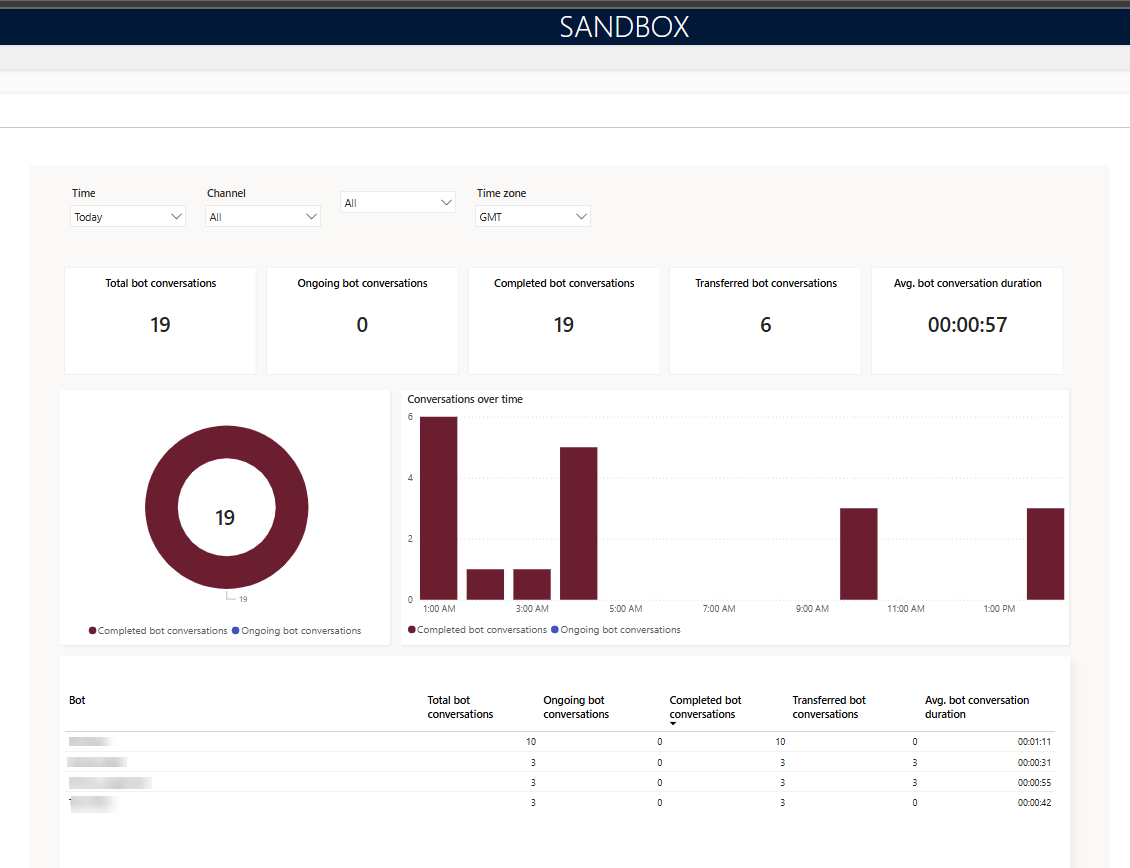
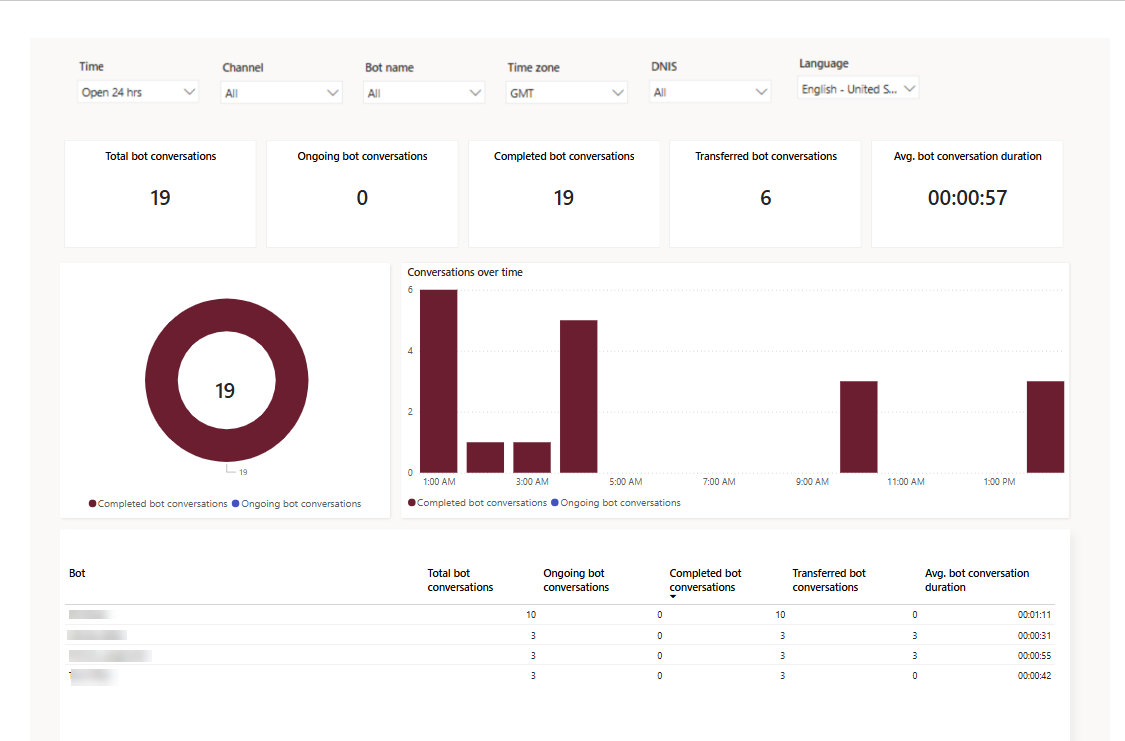
changes

diff --git a/contact-center/use/agent-realtime-dashboard.md b/contact-center/use/agent-realtime-dashboard.md
@@ -12,19 +12,24 @@ ms.custom: bap-template
 
 # View and understand the bot report in Omnichannel real-time analytics
 
-The **Bots** report provides insights into key metrics for all the Copilot Studio bots used in your contact center. It allows you to monitor the volumes of in-progress and completed bot conversations. 
-
-:::image type="content" source="../media/oc-realtime-dashboard.png" alt-text="Screenshot of realtime bot dashboard"::: 
-
-## Prerequisites
-
-- You must have the **Analytics Report Author** role to use the visual customizations in the bot dashboard. Visual customization is limited to the data available in the embedded Power BI report. If you want to add more data, you need a Power BI license and enable data model customization.
-
-## Key metrics
+The **Bot** report provides insights into key metrics for all the Copilot Studio bots used in your contact center. It allows you to monitor the volumes of in-progress and completed bot conversations.
 
 Out of the box, the dashboard displays key metrics for the last 24 hours to help you understand bot usage and optimize performance in real time.
 
-You can filter the report by selecting **All** to view bot performance across all channels or by choosing a specific channel. Filters include time, queue, time zone, and conversation status. Learn more in [Overview of Omnichannel Real-time analytics dashboards](/dynamics365/customer-service/use/intro-realtime-analytics-dashboard).
+You can filter the report by selecting **All** to view bot performance across all channels or by choosing a specific channel. Filters include time, queue, time zone, and conversation status. Learn more in [Overview of Omnichannel real-time analytics dashboards](/dynamics365/customer-service/use/intro-realtime-analytics-dashboard#filter-information-displayed-on-dashboard).
+
+
+## Key performance indicators (KPIs)
+
+Key KPIs for bots include:
+
+- **Total bot conversations**: The number of ongoing or closed conversations handled by the bot within the specified duration.
+- **Total bot ongoing conversations**: The number of conversations currently in progress.
+- **Total bot completed conversations**: The number of conversations that are successfully resolved or end within the specified duration.
+- **Total bot transferred conversations**: The number of bot conversations that are escalated to a human agent or an external phone number within the specified duration.
+- **Average conversation duration**: The average time each conversation lasts. The conversation duration is calculated from the time the bot is assigned to the conversation until the bot escalates the conversation or ends it.
+
+:::image type="content" source="../media/oc-realtime-dashboard.png" alt-text="Screenshot of realtime bot dashboard"::: 
 
 ## Monitor trends
 
@@ -32,19 +37,22 @@ You can identify trends in real-time bot performance with interactive charts and
 
  The visual display helps you discern changes and patterns in the data so that you can act quickly to address the most important issues.
 
-When you select a component in a chart, the data is filtered accordingly. In this way, you can view only data that is related to the selected component. For example, if you select the **Completed** component in the **Conversation status** chart, the dashboard is refreshed and shows only the conversations that are currently in the **Completed** state.
-
-## Customize bot dashboard
-You can edit the report to add other metrics and filters to the bot. To customize the bot dashboard, see [customize visual display](customize-agent-dashboard.md). 
+When you select a component in a chart, the data is filtered accordingly. In this way, you can view only data that is related to the selected component. For example, if you select the **Completed bot conversations** component in **Conversations over time**, the dashboard is refreshed and shows only the conversations that are currently in the **Completed** state.
 
 ## Bot details drill-down
 
-You can select a bot from **BotName** section on the dashboard to view key metrics and insights about individual bots' performance.
+You can select a bot from **Bot name** section on the dashboard to view key metrics and insights about individual bots' performance.
 
-Key KPIs for a bot include:
+## Customize bot dashboard
 
-- **Total bot conversations**: The number of ongoing or closed conversations handled by the bot within the specified duration.
-- **Total bot ongoing conversations**: The number of conversations currently in progress.
-- **Total bot completed conversations**: The number of conversations that are successfully resolved or end within the specified duration.
-- **Total bot transferred conversations**: The number of bot conversations that are escalated to a human agent or an external phone number within the specified duration.
-- **Average conversation duration**: The average time each conversation lasts. The conversation duration is calculated from the time the bot is assigned to the conversation until the bot escalates the conversation or ends it.
+You can edit the report to add the following bot specific metrics and filters to the dashboard:
+
+- Dialed number identification service (DNIS)
+- Last language
+- Failed calls
+- Outcome reason
+
+To customize the bot dashboard, see [customize visual display](customize-agent-dashboard.md). 
+
+> [!NOTE]
+> You must have the **Analytics Report Author** role to use the visual customizations in the bot dashboard. Visual customization is limited to the data available in the embedded Power BI report. If you want to add more data, you need a Power BI license and enable data model customization.
